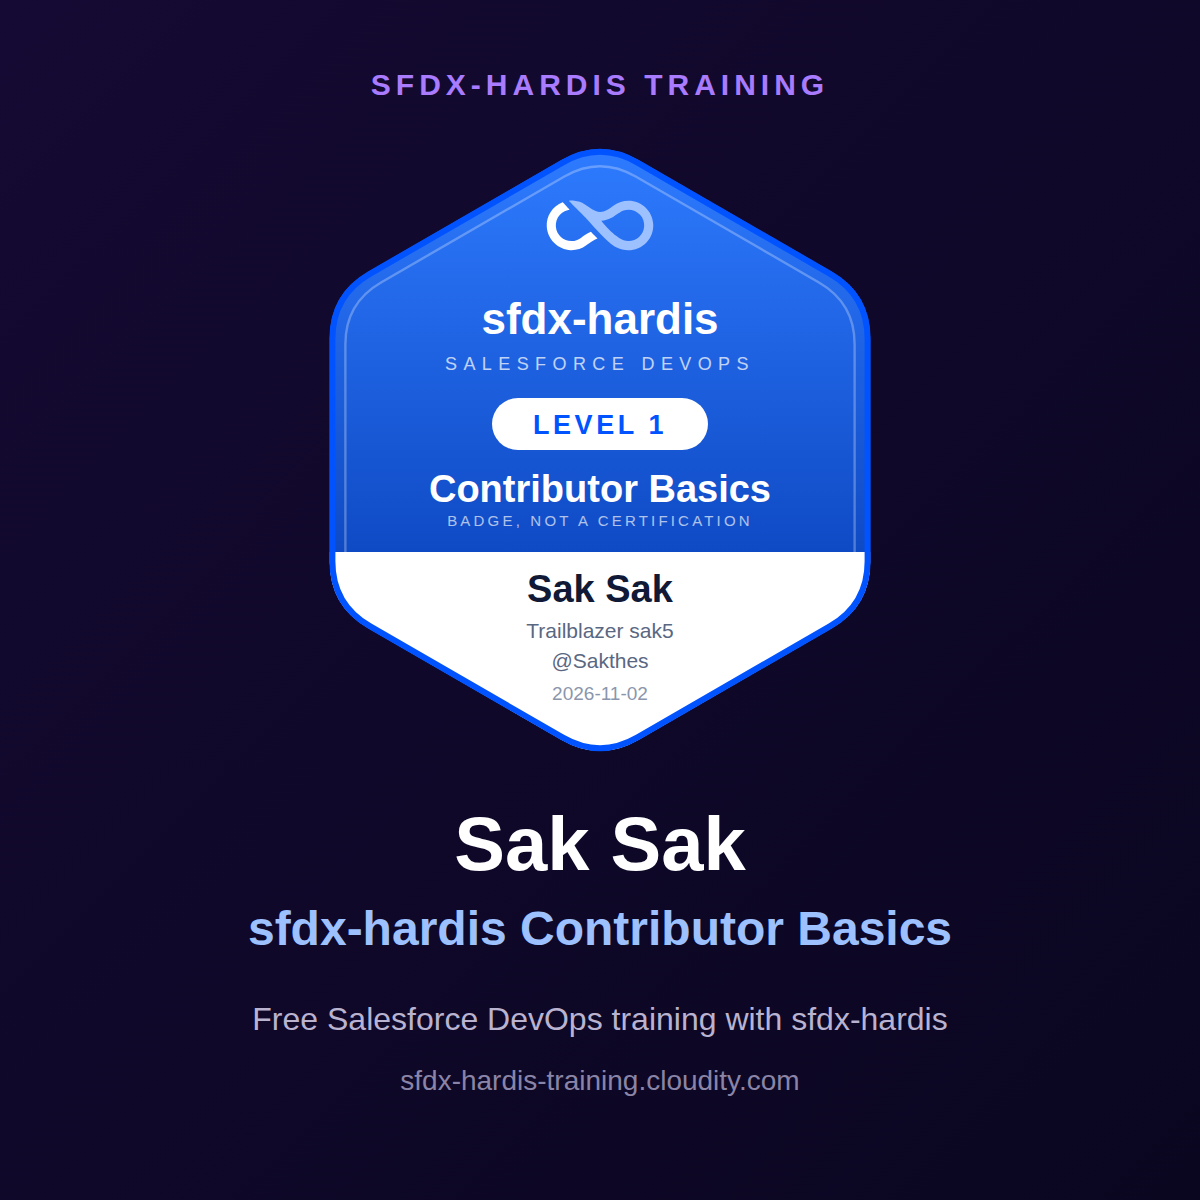
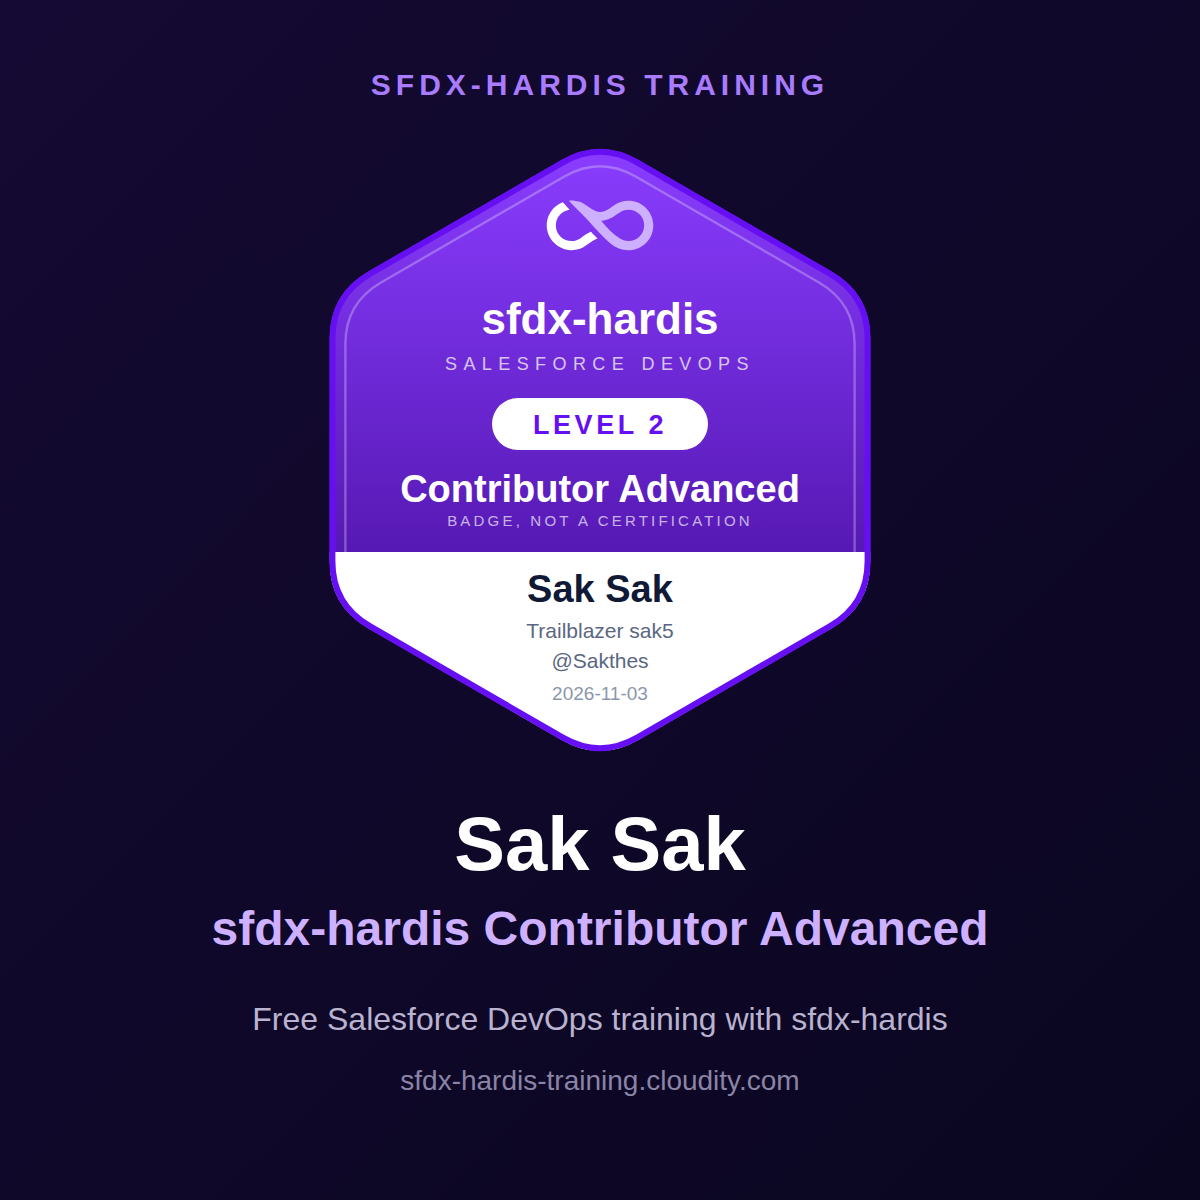
badge: level 2 for sak5 (Sakthes)

diff --git a/labs/fr/index.md b/labs/fr/index.md
@@ -3,7 +3,7 @@ title: "Formation Salesforce DevOps gratuite et pratique"
 description: "Formation Salesforce DevOps gratuite et pratique en trois niveaux : Git, Pull Requests, pipelines CI/CD et gestion des releases avec sfdx-hardis et VS Code."
 id: home
 lang: fr
-source_rev: "9c4f2cb23e10e3fa151a855dc12b1f8964e5d2d9"
+source_rev: "e1850de9ea8e23b613746c6a973ed35ef2fe5864"
 ---
 
 # Formation Salesforce DevOps avec sfdx-hardis
@@ -38,11 +38,11 @@ que vous suivez sa Pull Request jusqu'à la production.*
 
 ## Les trois niveaux
 
-| Niveau                                                                 | Pour qui                                                            | Durée | Prérequis          | À la fin, vous savez                                                                                               |
-|------------------------------------------------------------------------|---------------------------------------------------------------------|-------|--------------------|--------------------------------------------------------------------------------------------------------------------|
-| [**1 - Contributeur, les bases**](level-1-contributor-basics/index.md) | Admins et développeurs qui rejoignent une équipe ayant une pipeline | 2 h   | Rien               | Prendre une User Story, la construire, la publier, obtenir une Pull Request verte, la merger                       |
-| [**2 - Contributeur avancé**](level-2-contributor-advanced/index.md)   | Les mêmes, une fois les histoires faciles derrière eux              | 6 h   | Niveau 1           | Résoudre les erreurs de déploiement, déclarer des deployment actions, gérer les écrasements, résoudre les conflits |
-| [**3 - Release Manager**](level-3-release-manager/index.md)            | Celui ou celle qui tient la pipeline, les orgs et les releases      | 9 h   | Niveaux 1 **et** 2 | Reprendre une org sans pipeline, relire et merger, livrer en UAT et en production, faire un hotfix, monitorer      |
+| Niveau                                                                 | Pour qui                                                            | Durée  | Prérequis          | À la fin, vous savez                                                                                               |
+|------------------------------------------------------------------------|---------------------------------------------------------------------|--------|--------------------|--------------------------------------------------------------------------------------------------------------------|
+| [**1 - Contributeur, les bases**](level-1-contributor-basics/index.md) | Admins et développeurs qui rejoignent une équipe ayant une pipeline | 2 h    | Rien               | Prendre une User Story, la construire, la publier, obtenir une Pull Request verte, la merger                       |
+| [**2 - Contributeur avancé**](level-2-contributor-advanced/index.md)   | Les mêmes, une fois les histoires faciles derrière eux              | 5 h 45 | Niveau 1           | Résoudre les erreurs de déploiement, déclarer des deployment actions, gérer les écrasements, résoudre les conflits |
+| [**3 - Release Manager**](level-3-release-manager/index.md)            | Celui ou celle qui tient la pipeline, les orgs et les releases      | 9 h    | Niveaux 1 **et** 2 | Reprendre une org sans pipeline, relire et merger, livrer en UAT et en production, faire un hotfix, monitorer      |
 
 Les niveaux 1 et 2 forment ensemble le parcours contributeur, et ils s'adressent **autant aux admins
 qu'aux développeurs**. Nul besoin de connaître Git, la CLI Salesforce ou le DevOps : chaque étape est

diff --git a/STATS.md b/STATS.md
@@ -3,7 +3,7 @@
 # Course statistics
 
 Read every Monday and after every badge awarded, from the public repositories of the 95 learners who set up the course, and from the badges they claimed.
-Last update: 2026-11-02.
+Last update: 2026-11-03.
 
 ## Started and completed
 
@@ -12,8 +12,8 @@ A level is started when its first branch exists in the learner's repository, and
 | Level | Started | Share of learners | Completed | Share of started |
 |---|---|---|---|---|
 | Level 1 - Contributor basics | 94 | 99% | 67 | 71% |
-| Level 2 - Contributor advanced | 47 | 49% | 29 | 62% |
-| Level 3 - Release Manager | 29 | 31% | 15 | 52% |
+| Level 2 - Contributor advanced | 48 | 51% | 30 | 63% |
+| Level 3 - Release Manager | 30 | 32% | 15 | 50% |
 
 ## Time spent
 
@@ -22,7 +22,7 @@ The median time of the learners who went through, next to the estimate each lab 
 | Level | First estimate | Median | Fastest | Learners |
 |---|---|---|---|---|
 | Level 1 - Contributor basics | 1 h 30 | 1 h 25 | 32 min | 59 |
-| Level 2 - Contributor advanced | 4 h | 6 h 58 | 1 h 54 | 25 |
+| Level 2 - Contributor advanced | 4 h | 6 h 44 | 1 h 54 | 26 |
 | Level 3 - Release Manager | 6 h 55 | 11 h 02 | 2 h 56 | 10 |
 
 ### Level 1 - Contributor basics
@@ -36,14 +36,14 @@ The median time of the learners who went through, next to the estimate each lab 
 
 | Labs | First estimate | Median | Fastest | Learners |
 |---|---|---|---|---|
-| Labs 2.1 and 2.2 | 40 min | 57 min | 26 min | 40 |
-| Lab 2.3 | 30 min | 41 min | 11 min | 37 |
-| Lab 2.4 | 30 min | 55 min | 17 min | 30 |
-| Lab 2.5 | 30 min | 27 min | 7 min | 30 |
-| Lab 2.6 | 25 min | 28 min | 10 min | 30 |
-| Lab 2.7 | 35 min | 43 min | 11 min | 29 |
-| Lab 2.8 | 20 min | 27 min | 7 min | 27 |
-| Lab 2.9 | 30 min | 58 min | 23 min | 27 |
+| Labs 2.1 and 2.2 | 40 min | 57 min | 26 min | 41 |
+| Lab 2.3 | 30 min | 41 min | 11 min | 38 |
+| Lab 2.4 | 30 min | 55 min | 17 min | 31 |
+| Lab 2.5 | 30 min | 26 min | 7 min | 31 |
+| Lab 2.6 | 25 min | 28 min | 10 min | 31 |
+| Lab 2.7 | 35 min | 42 min | 11 min | 30 |
+| Lab 2.8 | 20 min | 27 min | 7 min | 28 |
+| Lab 2.9 | 30 min | 53 min | 19 min | 28 |
 
 ### Level 3 - Release Manager
 
@@ -70,15 +70,15 @@ From the learners who ran **Check my work** at the end of each lab: their receip
 | Lab 1.5 | 20 min | 15 min | 5 min | 37 |
 | Lab 1.6 | 20 min | 17 min | 5 min | 35 |
 | Lab 1.7 | 25 min | 27 min | 7 min | 38 |
-| Lab 2.1 | 15 min | 31 min | 10 min | 14 |
-| Lab 2.2 | 25 min | 36 min | 17 min | 14 |
-| Lab 2.3 | 30 min | 44 min | 15 min | 14 |
-| Lab 2.4 | 30 min | 1 h | 20 min | 14 |
-| Lab 2.5 | 30 min | 31 min | 9 min | 14 |
-| Lab 2.6 | 25 min | 33 min | 10 min | 14 |
-| Lab 2.7 | 35 min | 47 min | 25 min | 14 |
-| Lab 2.8 | 20 min | 29 min | 10 min | 14 |
-| Lab 2.9 | 30 min | 53 min | 23 min | 14 |
+| Lab 2.1 | 15 min | 30 min | 10 min | 15 |
+| Lab 2.2 | 25 min | 35 min | 17 min | 15 |
+| Lab 2.3 | 30 min | 41 min | 15 min | 15 |
+| Lab 2.4 | 30 min | 1 h 06 | 20 min | 15 |
+| Lab 2.5 | 30 min | 29 min | 9 min | 15 |
+| Lab 2.6 | 25 min | 32 min | 10 min | 15 |
+| Lab 2.7 | 35 min | 43 min | 25 min | 15 |
+| Lab 2.8 | 20 min | 28 min | 10 min | 15 |
+| Lab 2.9 | 30 min | 48 min | 19 min | 15 |
 | Lab 3.1 | 50 min | 2 h 05 | 41 min | 10 |
 | Lab 3.2 | 25 min | 26 min | 13 min | 11 |
 | Lab 3.3 | 45 min | 1 h 20 | 22 min | 11 |

diff --git a/labs/en/index.md b/labs/en/index.md
@@ -29,11 +29,11 @@ Pull Request to production.*
 
 ## The three levels
 
-| Level                                                                 | Who it is for                                                    | Time | Before you start   | You finish able to                                                                                  |
-|-----------------------------------------------------------------------|------------------------------------------------------------------|------|--------------------|-----------------------------------------------------------------------------------------------------|
-| [**1 - Contributor basics**](level-1-contributor-basics/index.md)     | Admins and developers joining a team that already has a pipeline | 2 h  | Nothing            | Take a User Story, build it, publish it, get a green Pull Request, merge it                         |
-| [**2 - Contributor advanced**](level-2-contributor-advanced/index.md) | The same people, once the easy stories are behind them           | 6 h  | Level 1            | Solve deployment errors, declare deployment actions, handle overwrites, resolve conflicts           |
-| [**3 - Release Manager**](level-3-release-manager/index.md)           | The person who owns the pipeline, the orgs and the releases      | 9 h  | Levels 1 **and** 2 | Take over an org with no pipeline, review and merge, release to UAT and production, hotfix, monitor |
+| Level                                                                 | Who it is for                                                    | Time   | Before you start   | You finish able to                                                                                  |
+|-----------------------------------------------------------------------|------------------------------------------------------------------|--------|--------------------|-----------------------------------------------------------------------------------------------------|
+| [**1 - Contributor basics**](level-1-contributor-basics/index.md)     | Admins and developers joining a team that already has a pipeline | 2 h    | Nothing            | Take a User Story, build it, publish it, get a green Pull Request, merge it                         |
+| [**2 - Contributor advanced**](level-2-contributor-advanced/index.md) | The same people, once the easy stories are behind them           | 5 h 45 | Level 1            | Solve deployment errors, declare deployment actions, handle overwrites, resolve conflicts           |
+| [**3 - Release Manager**](level-3-release-manager/index.md)           | The person who owns the pipeline, the orgs and the releases      | 9 h    | Levels 1 **and** 2 | Take over an org with no pipeline, review and merge, release to UAT and production, hotfix, monitor |
 
 Levels 1 and 2 are both the contributor path, and they are for **admins and developers alike**. You
 do not need to know Git, the Salesforce CLI or DevOps: every step is a click in VS Code or on

diff --git a/labs/fr/level-2-contributor-advanced/index.md b/labs/fr/level-2-contributor-advanced/index.md
@@ -4,12 +4,12 @@ description: "Affrontez ce que les vraies livraisons Salesforce vous envoient : 
 id: l2-home
 level: 2
 lang: fr
-source_rev: "8fb8d8aa35a02d14b0daa8ec3415e504755b45d6"
+source_rev: "471d3eed7472821a299ad7cbeb66993d71cb408c"
 ---
 
 # Niveau 2 - Contributeur Salesforce DevOps avancé
 
-**Durée** : environ 6 h.<!-- observed --> Observé sur les Labs 2.1 à 2.9 : médiane 6 h 58, 25 participants, le plus rapide 1 h 54.<!-- /observed -->
+**Durée** : environ 5 h 45.<!-- observed --> Observé sur les Labs 2.1 à 2.9 : médiane 6 h 44, 26 participants, le plus rapide 1 h 54.<!-- /observed -->
 
 **Prérequis** : le [Niveau 1](../level-1-contributor-basics/index.md). Pas facultatif : chaque lab
 d'ici suppose que la boucle est automatique pour vous.
@@ -36,12 +36,12 @@ jours.
 | [2.1](2-1-backpromote-your-teammates-work.md)                         | Backpromote : remettre votre org de dev au niveau de l'équipe           | 30 min |
 | [2.2](2-2-fix-a-missing-dependency-deployment-error.md)               | Corriger une erreur de déploiement due à une dépendance manquante       | 35 min |
 | [2.3](2-3-fix-broken-records-with-an-apex-deployment-action.md)       | Réparer des enregistrements cassés avec une deployment action Apex      | 40 min |
-| [2.4](2-4-ship-reference-data-and-a-batch-with-deployment-actions.md) | Livrer des données de référence et un batch avec des deployment actions | 1 h    |
-| [2.5](2-5-pass-code-quality-and-apex-test-coverage.md)                | Passer la barrière de qualité de code et la couverture de tests Apex    | 30 min |
+| [2.4](2-4-ship-reference-data-and-a-batch-with-deployment-actions.md) | Livrer des données de référence et un batch avec des deployment actions | 1 h 05 |
+| [2.5](2-5-pass-code-quality-and-apex-test-coverage.md)                | Passer la barrière de qualité de code et la couverture de tests Apex    | 25 min |
 | [2.6](2-6-permission-sets-and-profiles.md)                            | Permission sets, profils, et pourquoi une autorisation disparaît        | 30 min |
-| [2.7](2-7-resolve-a-git-merge-conflict.md)                            | Résoudre un conflit de merge Git avec un collègue                       | 45 min |
+| [2.7](2-7-resolve-a-git-merge-conflict.md)                            | Résoudre un conflit de merge Git avec un collègue                       | 40 min |
 | [2.8](2-8-recover-from-committing-the-wrong-metadata.md)              | Se remettre d'avoir commité la mauvaise métadonnée                      | 25 min |
-| [2.9](2-9-capstone-deliver-a-user-story-that-has-it-all.md)           | Épreuve finale : livrer une User Story qui a tout                       | 50 min |
+| [2.9](2-9-capstone-deliver-a-user-story-that-has-it-all.md)           | Épreuve finale : livrer une User Story qui a tout                       | 45 min |
 
 ## Le menu Training
 

diff --git a/labs/en/level-2-contributor-advanced/index.md b/labs/en/level-2-contributor-advanced/index.md
@@ -8,7 +8,7 @@ lang: en
 
 # Level 2 - Salesforce DevOps contributor advanced
 
-**Time**: about 6 h.<!-- observed --> Observed on Labs 2.1 to 2.9: median 6 h 58, 25 learners, fastest 1 h 54.<!-- /observed -->
+**Time**: about 5 h 45.<!-- observed --> Observed on Labs 2.1 to 2.9: median 6 h 44, 26 learners, fastest 1 h 54.<!-- /observed -->
 
 **Before you start**: [Level 1](../level-1-contributor-basics/index.md). Not optional: every lab here assumes the loop
 is automatic for you.
@@ -33,12 +33,12 @@ something breaks, you know where to look and what to do, and you lose minutes in
 | [2.1](2-1-backpromote-your-teammates-work.md)                         | Backpromote: catch your dev org up with the team        | 30 min |
 | [2.2](2-2-fix-a-missing-dependency-deployment-error.md)               | Fix a deployment error caused by a missing dependency   | 35 min |
 | [2.3](2-3-fix-broken-records-with-an-apex-deployment-action.md)       | Fix broken records with an Apex deployment action       | 40 min |
-| [2.4](2-4-ship-reference-data-and-a-batch-with-deployment-actions.md) | Ship reference data and a batch with deployment actions | 1 h    |
-| [2.5](2-5-pass-code-quality-and-apex-test-coverage.md)                | Pass the code quality gate and Apex test coverage       | 30 min |
+| [2.4](2-4-ship-reference-data-and-a-batch-with-deployment-actions.md) | Ship reference data and a batch with deployment actions | 1 h 05 |
+| [2.5](2-5-pass-code-quality-and-apex-test-coverage.md)                | Pass the code quality gate and Apex test coverage       | 25 min |
 | [2.6](2-6-permission-sets-and-profiles.md)                            | Permission sets, profiles and why a grant disappears    | 30 min |
-| [2.7](2-7-resolve-a-git-merge-conflict.md)                            | Resolve a Git merge conflict with a teammate            | 45 min |
+| [2.7](2-7-resolve-a-git-merge-conflict.md)                            | Resolve a Git merge conflict with a teammate            | 40 min |
 | [2.8](2-8-recover-from-committing-the-wrong-metadata.md)              | Recover from committing the wrong metadata              | 25 min |
-| [2.9](2-9-capstone-deliver-a-user-story-that-has-it-all.md)           | Capstone: deliver a User Story that has it all          | 50 min |
+| [2.9](2-9-capstone-deliver-a-user-story-that-has-it-all.md)           | Capstone: deliver a User Story that has it all          | 45 min |
 
 ## The Training menu
 

diff --git a/labs/fr/level-2-contributor-advanced/2-1-backpromote-your-teammates-work.md b/labs/fr/level-2-contributor-advanced/2-1-backpromote-your-teammates-work.md
@@ -5,7 +5,7 @@ description: "Votre org de développement est en retard sur integration. Faites-
 level: 2
 lab: 1
 lang: fr
-source_rev: "61f18bdfd27b43eee08e6a943c9cadc5111e024f"
+source_rev: "66e7584321f66a6c295f2a92a50fb1d86fbdf2e6"
 screenshots:
   - annotated/vscode/sidebar-commands-custom-menu-2--training-menu
   - annotated/web/github-pr-files
@@ -27,7 +27,7 @@ depends_on:
 
 **Niveau** : 2 Contributeur avancé
 
-**Durée** : ~30 min<!-- observed --> (observé : médiane 31 min, 14 participants, le plus rapide 10 min)<!-- /observed -->
+**Durée** : ~30 min<!-- observed --> (observé : médiane 30 min, 15 participants, le plus rapide 10 min)<!-- /observed -->
 
 **Vous allez** : rapatrier dans votre propre org de dev la story mergée par un collègue, décider
 quoi garder quand l'outil vous le demande, et apprendre ce qu'un backpromote ne fera jamais pour

diff --git a/labs/fr/level-2-contributor-advanced/2-7-resolve-a-git-merge-conflict.md b/labs/fr/level-2-contributor-advanced/2-7-resolve-a-git-merge-conflict.md
@@ -5,7 +5,7 @@ description: "Une collègue a mergé en premier sur le même flow et le même pe
 level: 2
 lab: 7
 lang: fr
-source_rev: "52886b043f89afb8e479452e20e6db92bc702445"
+source_rev: "e948e9f4c4e0cad19dc88d9fcaea61cd224ba23e"
 screenshots:
   - annotated/salesforce/flow-builder-assign-crew
   - annotated/salesforce/flow-builder-assign-crew-full
@@ -30,7 +30,7 @@ depends_on:
 
 **Niveau** : 2 Contributeur avancé
 
-**Durée** : ~45 min<!-- observed --> (observé : médiane 47 min, 14 participants, le plus rapide 25 min)<!-- /observed -->
+**Durée** : ~40 min<!-- observed --> (observé : médiane 43 min, 15 participants, le plus rapide 25 min)<!-- /observed -->
 
 **Vous allez** : affronter un vrai conflit de merge sur deux fichiers qui entrent en conflit de façon
 très différente, et résoudre les deux sans perdre le travail de personne.

diff --git a/labs/fr/level-2-contributor-advanced/2-2-fix-a-missing-dependency-deployment-error.md b/labs/fr/level-2-contributor-advanced/2-2-fix-a-missing-dependency-deployment-error.md
@@ -5,7 +5,7 @@ description: "Modifiez un flow Salesforce existant, puis lisez correctement un c
 level: 2
 lab: 2
 lang: fr
-source_rev: "037525dd31b4122cbdf4577836f95a1ca08bd900"
+source_rev: "8a81847d8e0f227f6b821e034afba6c819c7bb7a"
 screenshots:
   - annotated/vscode/package-xml-filtered
   - annotated/vscode/editor-field-file
@@ -31,7 +31,7 @@ depends_on:
 
 **Niveau** : 2 Contributeur avancé
 
-**Durée** : ~35 min<!-- observed --> (observé : médiane 36 min, 14 participants, le plus rapide 17 min)<!-- /observed -->
+**Durée** : ~35 min<!-- observed --> (observé : médiane 35 min, 15 participants, le plus rapide 17 min)<!-- /observed -->
 
 **Vous allez** : modifier un flow qui tourne déjà en production, rencontrer votre premier contrôle de
 déploiement en échec, lire l'erreur correctement, et trouver ce que votre package a oublié.

diff --git a/labs/fr/level-2-contributor-advanced/2-8-recover-from-committing-the-wrong-metadata.md b/labs/fr/level-2-contributor-advanced/2-8-recover-from-committing-the-wrong-metadata.md
@@ -5,7 +5,7 @@ description: "Vous avez publié bien plus que votre story. Voyez ce que cela fai
 level: 2
 lab: 8
 lang: fr
-source_rev: "ac8ba651d5416793e76886a1e3b72dc69b4af869"
+source_rev: "66e0bef51b59b9d15ab2d3cd4944739e59d3af9a"
 screenshots:
   - annotated/vscode/pipeline-cards--new-user-story
   - annotated/vscode/metadata-retriever-recent-changes--pick-rows
@@ -23,7 +23,7 @@ depends_on:
 
 **Niveau** : 2 Contributeur avancé
 
-**Durée** : ~25 min<!-- observed --> (observé : médiane 29 min, 14 participants, le plus rapide 10 min)<!-- /observed -->
+**Durée** : ~25 min<!-- observed --> (observé : médiane 28 min, 15 participants, le plus rapide 10 min)<!-- /observed -->
 
 **Vous allez** : sur-sélectionner exprès au moment de publier, voir ce que cela fait à une Pull
 Request, et apprendre les deux chemins de récupération.

diff --git a/labs/fr/level-2-contributor-advanced/2-5-pass-code-quality-and-apex-test-coverage.md b/labs/fr/level-2-contributor-advanced/2-5-pass-code-quality-and-apex-test-coverage.md
@@ -5,7 +5,7 @@ description: "Corrigez une trouvaille PMD et la couverture de code Apex qui bloq
 level: 2
 lab: 5
 lang: fr
-source_rev: "f39024eae80d899ad0511f78489ae982c79c5a83"
+source_rev: "d10691b78fc37560961b7126a5ece1a78586e059"
 screenshots:
   - annotated/vscode/pipeline-cards--new-user-story
   - annotated/vscode/org-monitoring--apex-tests
@@ -21,7 +21,7 @@ depends_on:
 
 **Niveau** : 2 Contributeur avancé
 
-**Durée** : ~30 min<!-- observed --> (observé : médiane 31 min, 14 participants, le plus rapide 9 min)<!-- /observed -->
+**Durée** : ~25 min<!-- observed --> (observé : médiane 29 min, 15 participants, le plus rapide 9 min)<!-- /observed -->
 
 **Vous allez** : être bloqué deux fois par des robots, corriger les deux correctement plutôt que de
 les contourner, et apprendre à lancer les contrôles avant de pousser.

diff --git a/labs/fr/level-2-contributor-advanced/2-6-permission-sets-and-profiles.md b/labs/fr/level-2-contributor-advanced/2-6-permission-sets-and-profiles.md
@@ -5,7 +5,7 @@ description: "Une permission accordée sur un profil s'évapore après un déplo
 level: 2
 lab: 6
 lang: fr
-source_rev: "10cd8177429a60222e9417a953362951d2f52201"
+source_rev: "f27a922b79edc53c4277e8b9d84e964a08b1e656"
 screenshots:
   - annotated/vscode/pipeline-cards--new-user-story
   - annotated/vscode/pipeline-packages-menu--package-xml
@@ -22,7 +22,7 @@ depends_on:
 
 **Niveau** : 2 Contributeur avancé
 
-**Durée** : ~30 min<!-- observed --> (observé : médiane 33 min, 14 participants, le plus rapide 10 min)<!-- /observed -->
+**Durée** : ~30 min<!-- observed --> (observé : médiane 32 min, 15 participants, le plus rapide 10 min)<!-- /observed -->
 
 **Vous allez** : courir après une permission qui s'évapore entre un déploiement vert et l'org cible,
 et découvrir qu'elle a été retirée exprès.

diff --git a/labs/fr/level-2-contributor-advanced/2-3-fix-broken-records-with-an-apex-deployment-action.md b/labs/fr/level-2-contributor-advanced/2-3-fix-broken-records-with-an-apex-deployment-action.md
@@ -5,7 +5,7 @@ description: "Rendre un champ obligatoire se déploie au vert et casse les enreg
 level: 2
 lab: 3
 lang: fr
-source_rev: "980cbede0d27467b80686c982c123f00d9341139"
+source_rev: "c241a1233f2636894526afb811c34a8429404f8b"
 screenshots:
   - annotated/vscode/pipeline-cards--my-pull-request
   - annotated/vscode/pipeline-cards--new-user-story
@@ -24,7 +24,7 @@ depends_on:
 
 **Niveau** : 2 Contributeur avancé
 
-**Durée** : ~40 min<!-- observed --> (observé : médiane 44 min, 14 participants, le plus rapide 15 min)<!-- /observed -->
+**Durée** : ~40 min<!-- observed --> (observé : médiane 41 min, 15 participants, le plus rapide 15 min)<!-- /observed -->
 
 **Vous allez** : rencontrer un échec qu'aucune correction de métadonnée ne résout, et découvrir
 l'outil qui existe pour cela : une deployment action.
